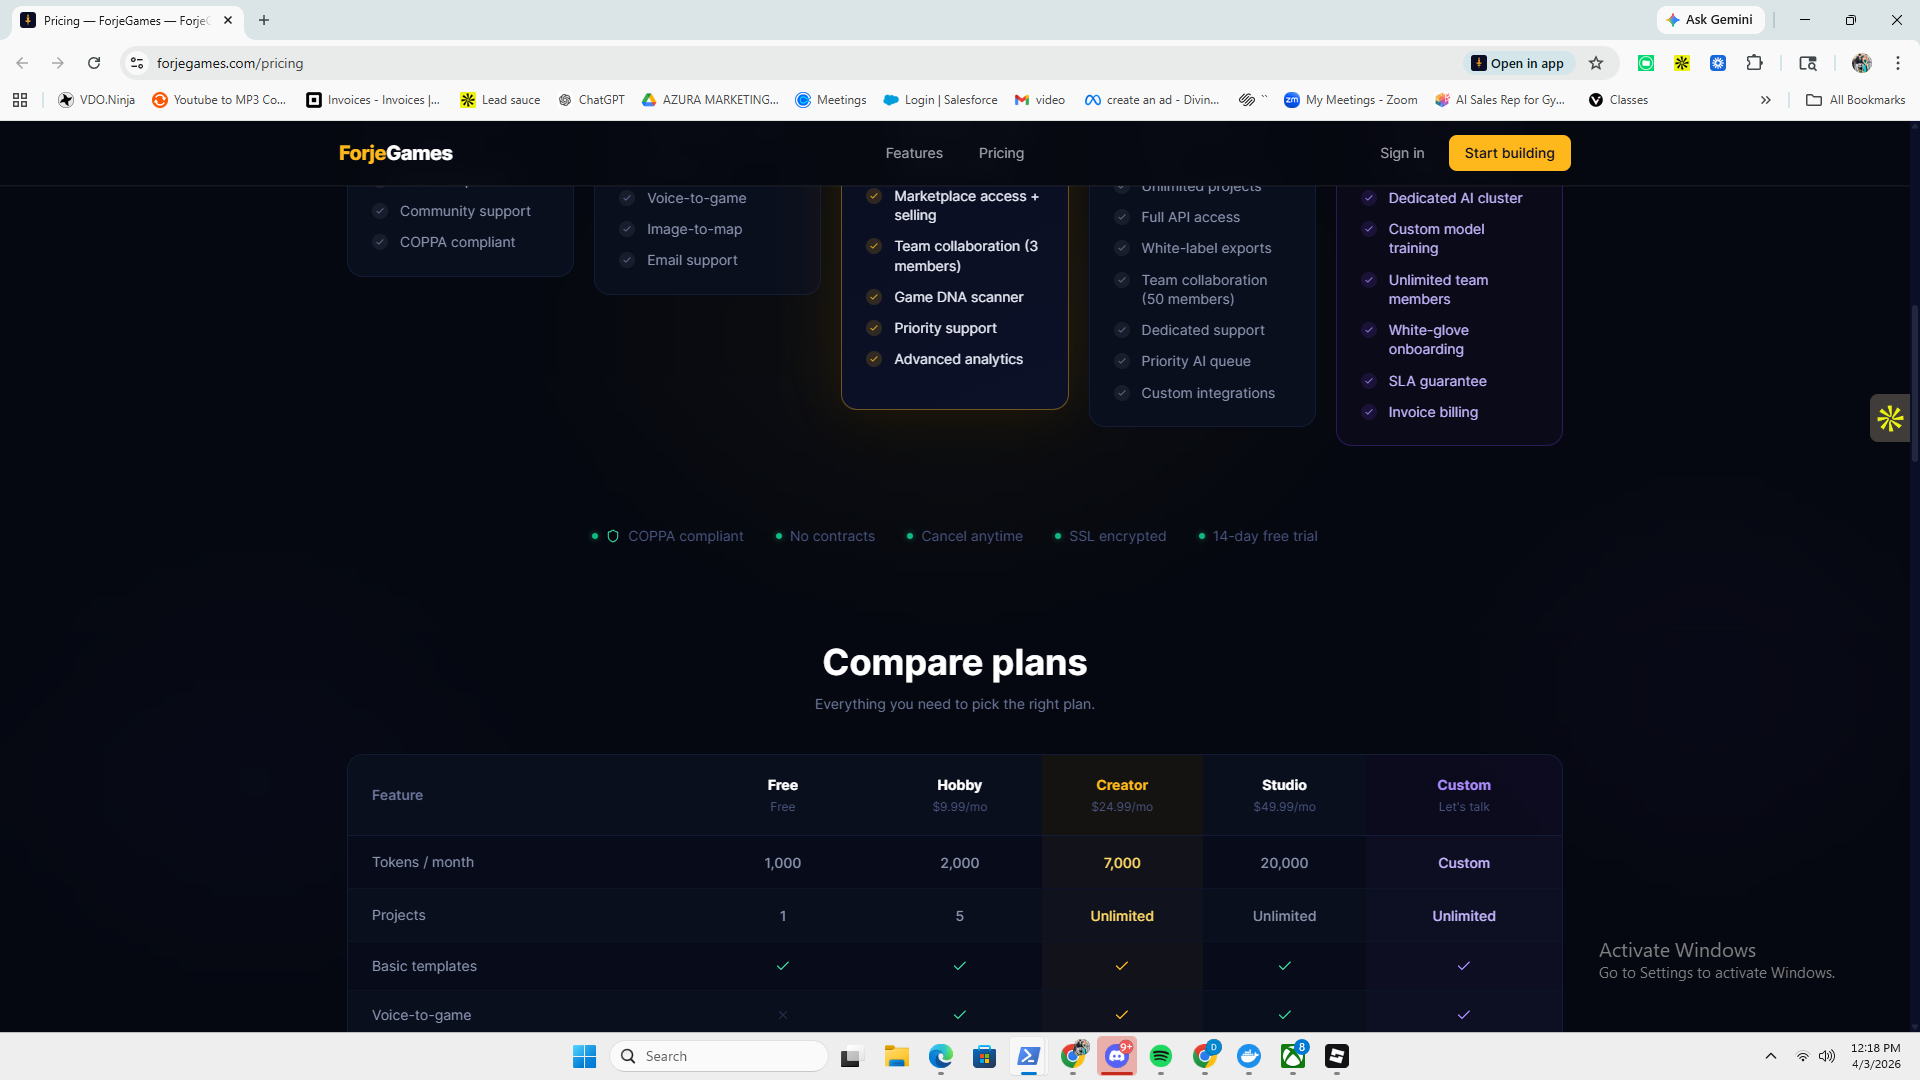
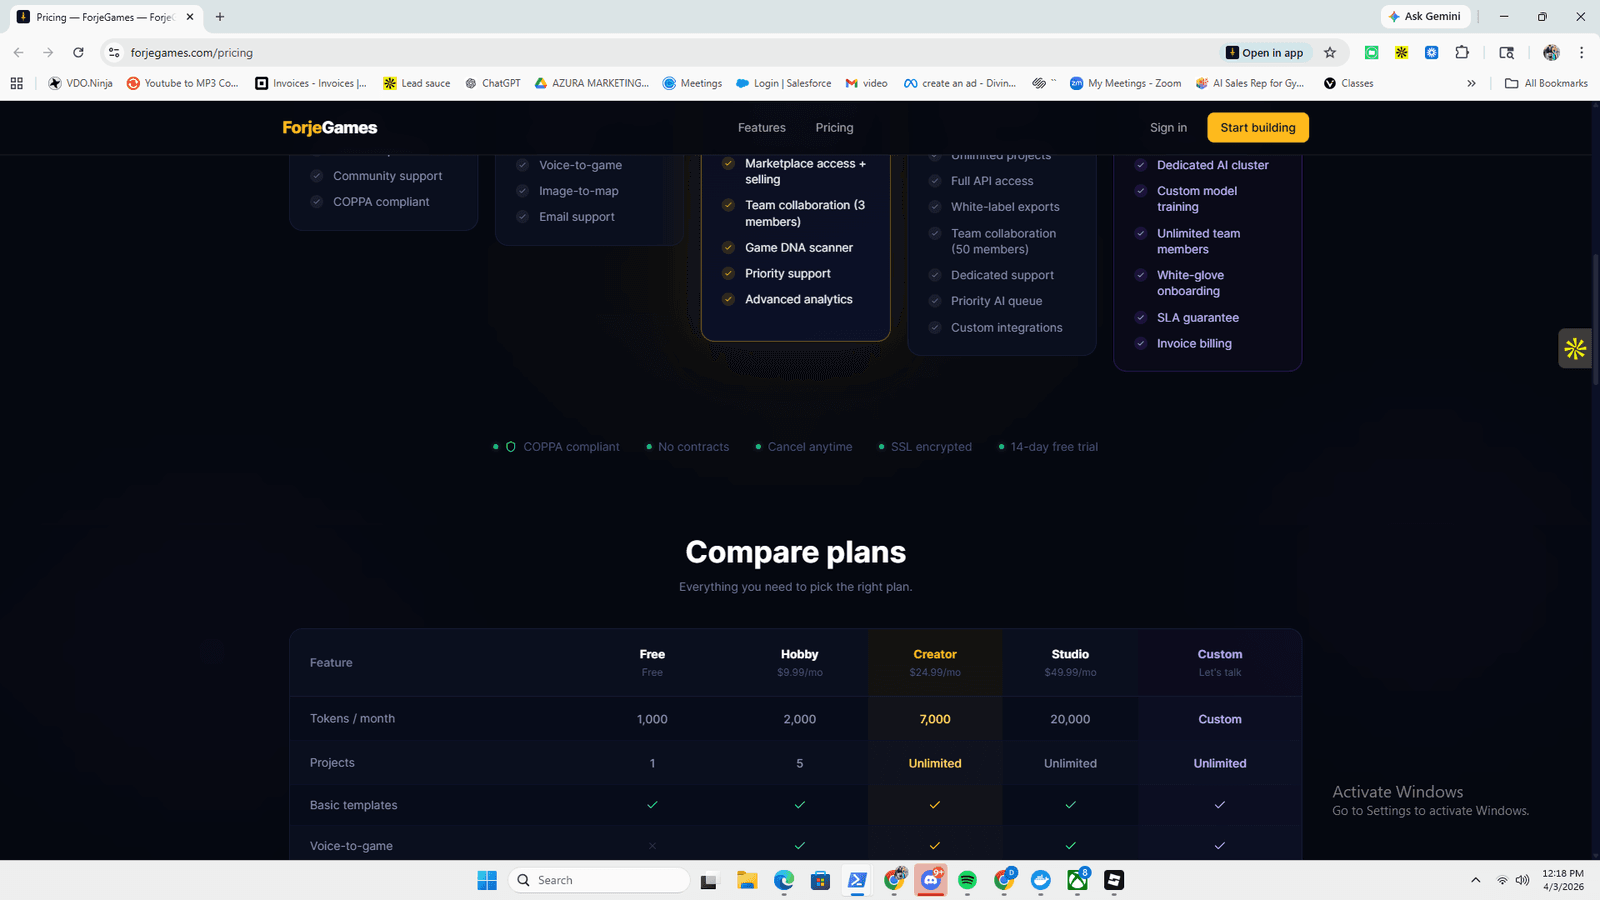
perf: compress showcase PNGs 83% + rate-limit dashboard/stats + drop dead leaderboard query
Direct follow-up to b9854d7. That commit landed the marketing assets but
flagged "Revisit later with imagemin / sharp if the git-history weight
becomes a concern" — this is that revisit, plus two real scale fixes
surfaced by an audit pass aimed at the thousand-user case.

Image compression (scripts/compress-showcase.mjs):
- forjegames-state3.png:      3.55MB → 625KB (-83%)
- forjegames-state5.png:      5.24MB → 847KB (-84%)
- forjegames-pricing-raw.png: 233KB  → 81KB  (-65%)
- Total payload: 9.0MB → 1.5MB. The Vercel image optimizer still
  generates AVIF/WebP variants on top of these, but the source files
  going through git history (and into every clone) are now sane.
- One-shot script committed for re-runs if more screenshots land.

Rate-limiting /api/dashboard/stats:
- DashboardHomeClient polls this every 60s via SWR. With no rate
  limit, 1k concurrent users = 1k req/min on a 4-query endpoint
  (user, streak, tokenBalance, tokenTransaction.count + .findMany).
- Added generalRateLimit(clerkId) at 100/min/user — well above the
  SWR cadence, leaves headroom for tab focus refetches. Returns 429
  via the shared rateLimitResponse() helper so the client backs off.
- Also extracted the empty payload to a const so it isn't duplicated
  three times.

Dropping dead leaderboard query (community/creator-leaderboard):
- The route was selecting db.user.findMany({ where: { isPublic: true },
  select: { xp, totalForks, totalLikes } }). None of those fields exist
[…]

diff --git a/src/app/api/community/creator-leaderboard/route.ts b/src/app/api/community/creator-leaderboard/route.ts
@@ -1,5 +1,4 @@
 import { NextRequest, NextResponse } from 'next/server'
-import { levelForXp } from '@/lib/viral/xp-engine'
 
 /**
  * GET /api/community/creator-leaderboard?sort=xp|forks|likes&limit=25
@@ -8,6 +7,19 @@ import { levelForXp } from '@/lib/viral/xp-engine'
  * received. Public — no auth required.
  *
  * Caching: 5 minutes.
+ *
+ * STATUS — known limitation: the User model does NOT currently expose `xp`,
+ * `isPublic`, `totalForks`, or `totalLikes`. XP lives on the UserXP model and
+ * forks/likes are derived from Project aggregates. The previous implementation
+ * tried to select those fields directly on User, threw a Prisma error, and
+ * silently fell through to DEMO_ENTRIES on every single request — and it did
+ * so AFTER hitting the DB, which wasted a query per call. Until the proper
+ * UserXP join + Project aggregate path lands in a follow-up, we serve the
+ * curated demo set directly. This is what users currently see anyway, just
+ * without the wasted DB roundtrip.
+ *
+ * Follow-up: replace with a denormalized creator_leaderboard materialized
+ * view refreshed nightly. Tracked in .planning/old-windows-assets/ audit doc.
  */
 
 export const revalidate = 300
@@ -36,76 +48,8 @@ const DEMO_ENTRIES: LeaderboardEntry[] = [
 export async function GET(req: NextRequest) {
   const url = new URL(req.url)
   const sortParam = url.searchParams.get('sort')
-  const limitParam = url.searchParams.get('limit')
   const sort: SortKey =
     sortParam === 'forks' || sortParam === 'likes' ? sortParam : 'xp'
-  const limit = Math.min(Math.max(Number(limitParam) || 25, 1), 100)
 
-  try {
-    const { db } = await import('@/lib/db')
-
-    // Order users by the requested dimension.
-    const orderBy =
-      sort === 'xp'
-        ? [{ xp: 'desc' as const }]
-        : sort === 'forks'
-          ? [{ totalForks: 'desc' as const }]
-          : [{ totalLikes: 'desc' as const }]
-
-    // `totalForks`/`totalLikes` may be maintained as denormalized columns or
-    // computed from project aggregates. We attempt the simple path first; if
-    // the column is missing, we fall back to computing on-the-fly.
-    let users: Array<{
-      id: string
-      username: string | null
-      avatarUrl: string | null
-      xp: number | null
-      totalForks?: number | null
-      totalLikes?: number | null
-    }> = []
-    try {
-      users = await db.user.findMany({
-        where: { isPublic: true },
-        orderBy,
-        take: limit,
-        select: {
-          id: true,
-          username: true,
-          avatarUrl: true,
-          xp: true,
-          // @ts-expect-error — fields may not exist in all envs
-          totalForks: true,
-          // @ts-expect-error — see above
-          totalLikes: true,
-        },
-      })
-    } catch {
-      // Fallback: simple XP sort without denormalized columns.
-      users = await db.user.findMany({
-        where: { isPublic: true },
-        orderBy: [{ xp: 'desc' }],
-        take: limit,
-        select: { id: true, username: true, avatarUrl: true, xp: true },
-      })
-    }
-
-    if (users.length === 0) {
-      return NextResponse.json({ sort, entries: DEMO_ENTRIES, demo: true })
-    }
-
-    const entries: LeaderboardEntry[] = users.map((u, i) => ({
-      rank: i + 1,
-      userId: u.id,
-      username: u.username ?? 'anonymous',
-      avatarUrl: u.avatarUrl ?? null,
-      xp: u.xp ?? 0,
-      level: levelForXp(u.xp ?? 0),
-      totalForks: u.totalForks ?? 0,
-      totalLikes: u.totalLikes ?? 0,
-    }))
-
-    return NextResponse.json({ sort, entries })
-  } catch {
-    return NextResponse.json({ sort, entries: DEMO_ENTRIES, demo: true })
-  }
+  return NextResponse.json({ sort, entries: DEMO_ENTRIES, demo: true })
 }

diff --git a/src/app/api/dashboard/stats/route.ts b/src/app/api/dashboard/stats/route.ts
@@ -1,11 +1,31 @@
 import { NextResponse } from 'next/server'
 import { auth } from '@clerk/nextjs/server'
+import { generalRateLimit, rateLimitResponse } from '@/lib/rate-limit'
+
+// Cache the unauthenticated/empty payload at the edge so 1k+ unauth pollers
+// don't hit the lambda repeatedly. Authenticated responses bypass the cache
+// because Clerk's session cookie varies per user.
+export const revalidate = 0
+
+const EMPTY_STATS = {
+  buildsThisWeek: 0,
+  activeProjects: 0,
+  streakDays: 0,
+  buildActivity: [0, 0, 0, 0, 0, 0, 0],
+}
 
 export async function GET() {
   try {
     const { userId: clerkId } = await auth()
 
     if (clerkId) {
+      // Rate limit BEFORE any DB work — DashboardHomeClient polls this every
+      // 60s via SWR. At thousands of users that's hundreds of req/s with 4-5
+      // queries each. 60/min per user = once per second, well above the SWR
+      // refresh rate, leaves headroom for tab focus refetches.
+      const rl = await generalRateLimit(clerkId)
+      if (!rl.allowed) return rateLimitResponse(rl)
+
       try {
         const { db } = await import('@/lib/db')
 
@@ -93,18 +113,8 @@ export async function GET() {
       }
     }
 
-    return NextResponse.json({
-      buildsThisWeek: 0,
-      activeProjects: 0,
-      streakDays: 0,
-      buildActivity: [0, 0, 0, 0, 0, 0, 0],
-    })
+    return NextResponse.json(EMPTY_STATS)
   } catch {
-    return NextResponse.json({
-      buildsThisWeek: 0,
-      activeProjects: 0,
-      streakDays: 0,
-      buildActivity: [0, 0, 0, 0, 0, 0, 0],
-    })
+    return NextResponse.json(EMPTY_STATS)
   }
 }
